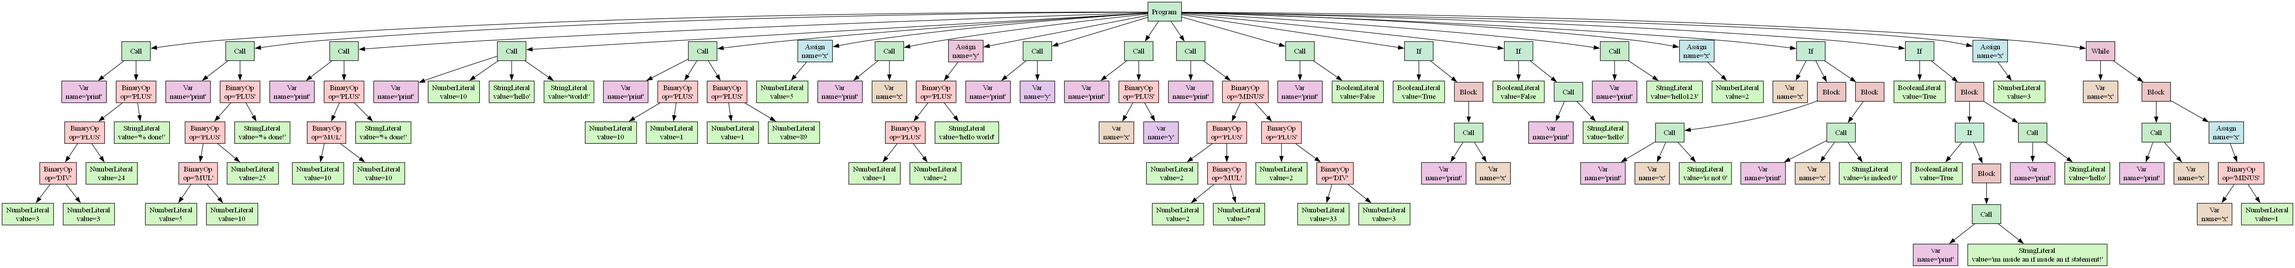
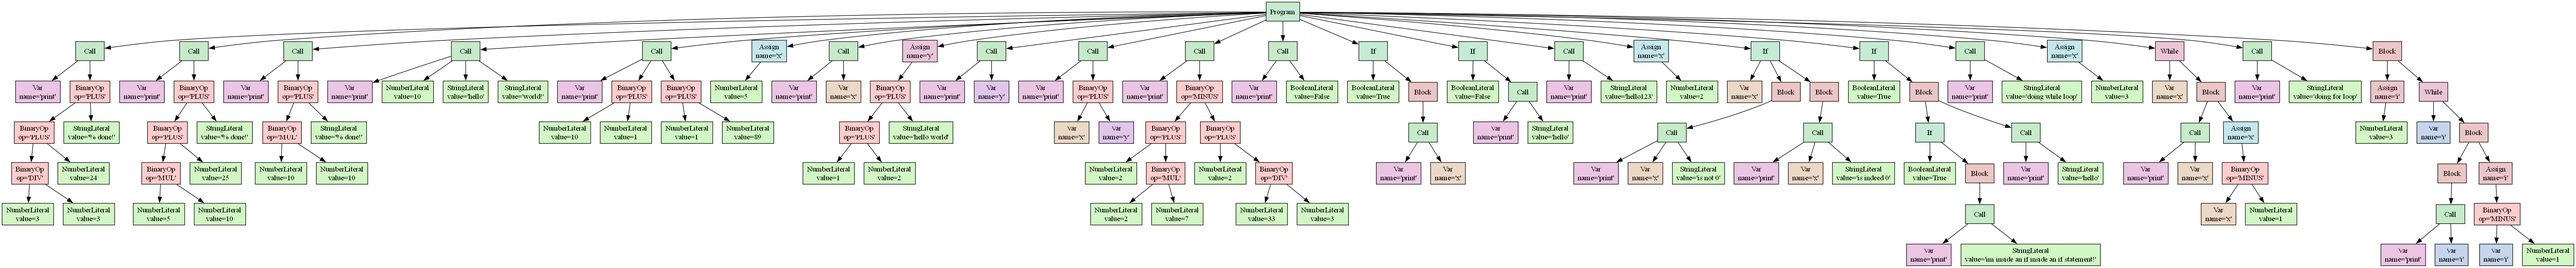
For loops implemented
converts a for loop into an equivalent while loop.
Added a parse_simple_statement function as well for statements that use a semi colon as a delimiter and not terminator.

diff --git a/mars_transpiler/parser.py b/mars_transpiler/parser.py
@@ -36,6 +36,8 @@ class Parser:
             return self.parse_if()
         elif tok.type == "WHILE":
             return self.parse_while()
+        elif tok.type == "FOR":
+            return self.parse_for()
         elif tok.type == "LBRACE":
             return self.parse_block()
 
@@ -84,6 +86,54 @@ class Parser:
         condition = self.expr() # parse the condition expression
         self.eat("RPAREN")
         return condition
+    
+    def parse_for(self):
+        self.eat("FOR")
+        self.eat("LPAREN")
+
+        # init can be assignment or empty
+        init = None
+        if self.current().type != "SEMI":
+            init = self.parse_simple_statement()
+        self.eat("SEMI")
+
+        # condition can be empty
+        condition = None
+        if self.current().type != "SEMI":
+            condition = self.expr()
+        self.eat("SEMI")
+
+        # increment can be empty
+        increment = None
+        if self.current().type != "RPAREN":
+            increment = self.parse_simple_statement()
+        self.eat("RPAREN")
+
+        body = self.parse_blockorstatement()
+
+        # Transform for into equivalent while
+        if condition is None:
+            condition = BooleanLiteral(True)
+        if increment is None:
+            loop_body = body
+        else:
+            loop_body = Block([body, increment])
+
+        if init is not None:
+            return Block([init, While(condition, loop_body)])
+        return While(condition, loop_body)
+    
+    def parse_simple_statement(self):
+        """Parse a statement without consuming a trailing semicolon."""
+        tok = self.current()
+        if tok.type == "ID" and self.peek().type == "ASSIGN":
+            name = self.eat("ID").value
+            self.eat("ASSIGN")
+            value = self.expr()
+            return Assign(name, value)
+        return self.expr()
+
+
     
     def parse_block(self):
         stmts = []

diff --git a/mars_transpiler/lexer.py b/mars_transpiler/lexer.py
@@ -42,6 +42,7 @@ TOKEN_SPEC = [
     ("IF", r"if"),                     # check for if statements
     ("ELSE", r"else"),                 # check for else statements
     ("WHILE", r"while"),               # check for while loops
+    ("FOR", r"for"),                 # check for for loops
 
     # --- Identifiers & Keywords ---
     ("ID",      r"[A-Za-z_][A-Za-z0-9_]*"), # identifiers (including 'print')
